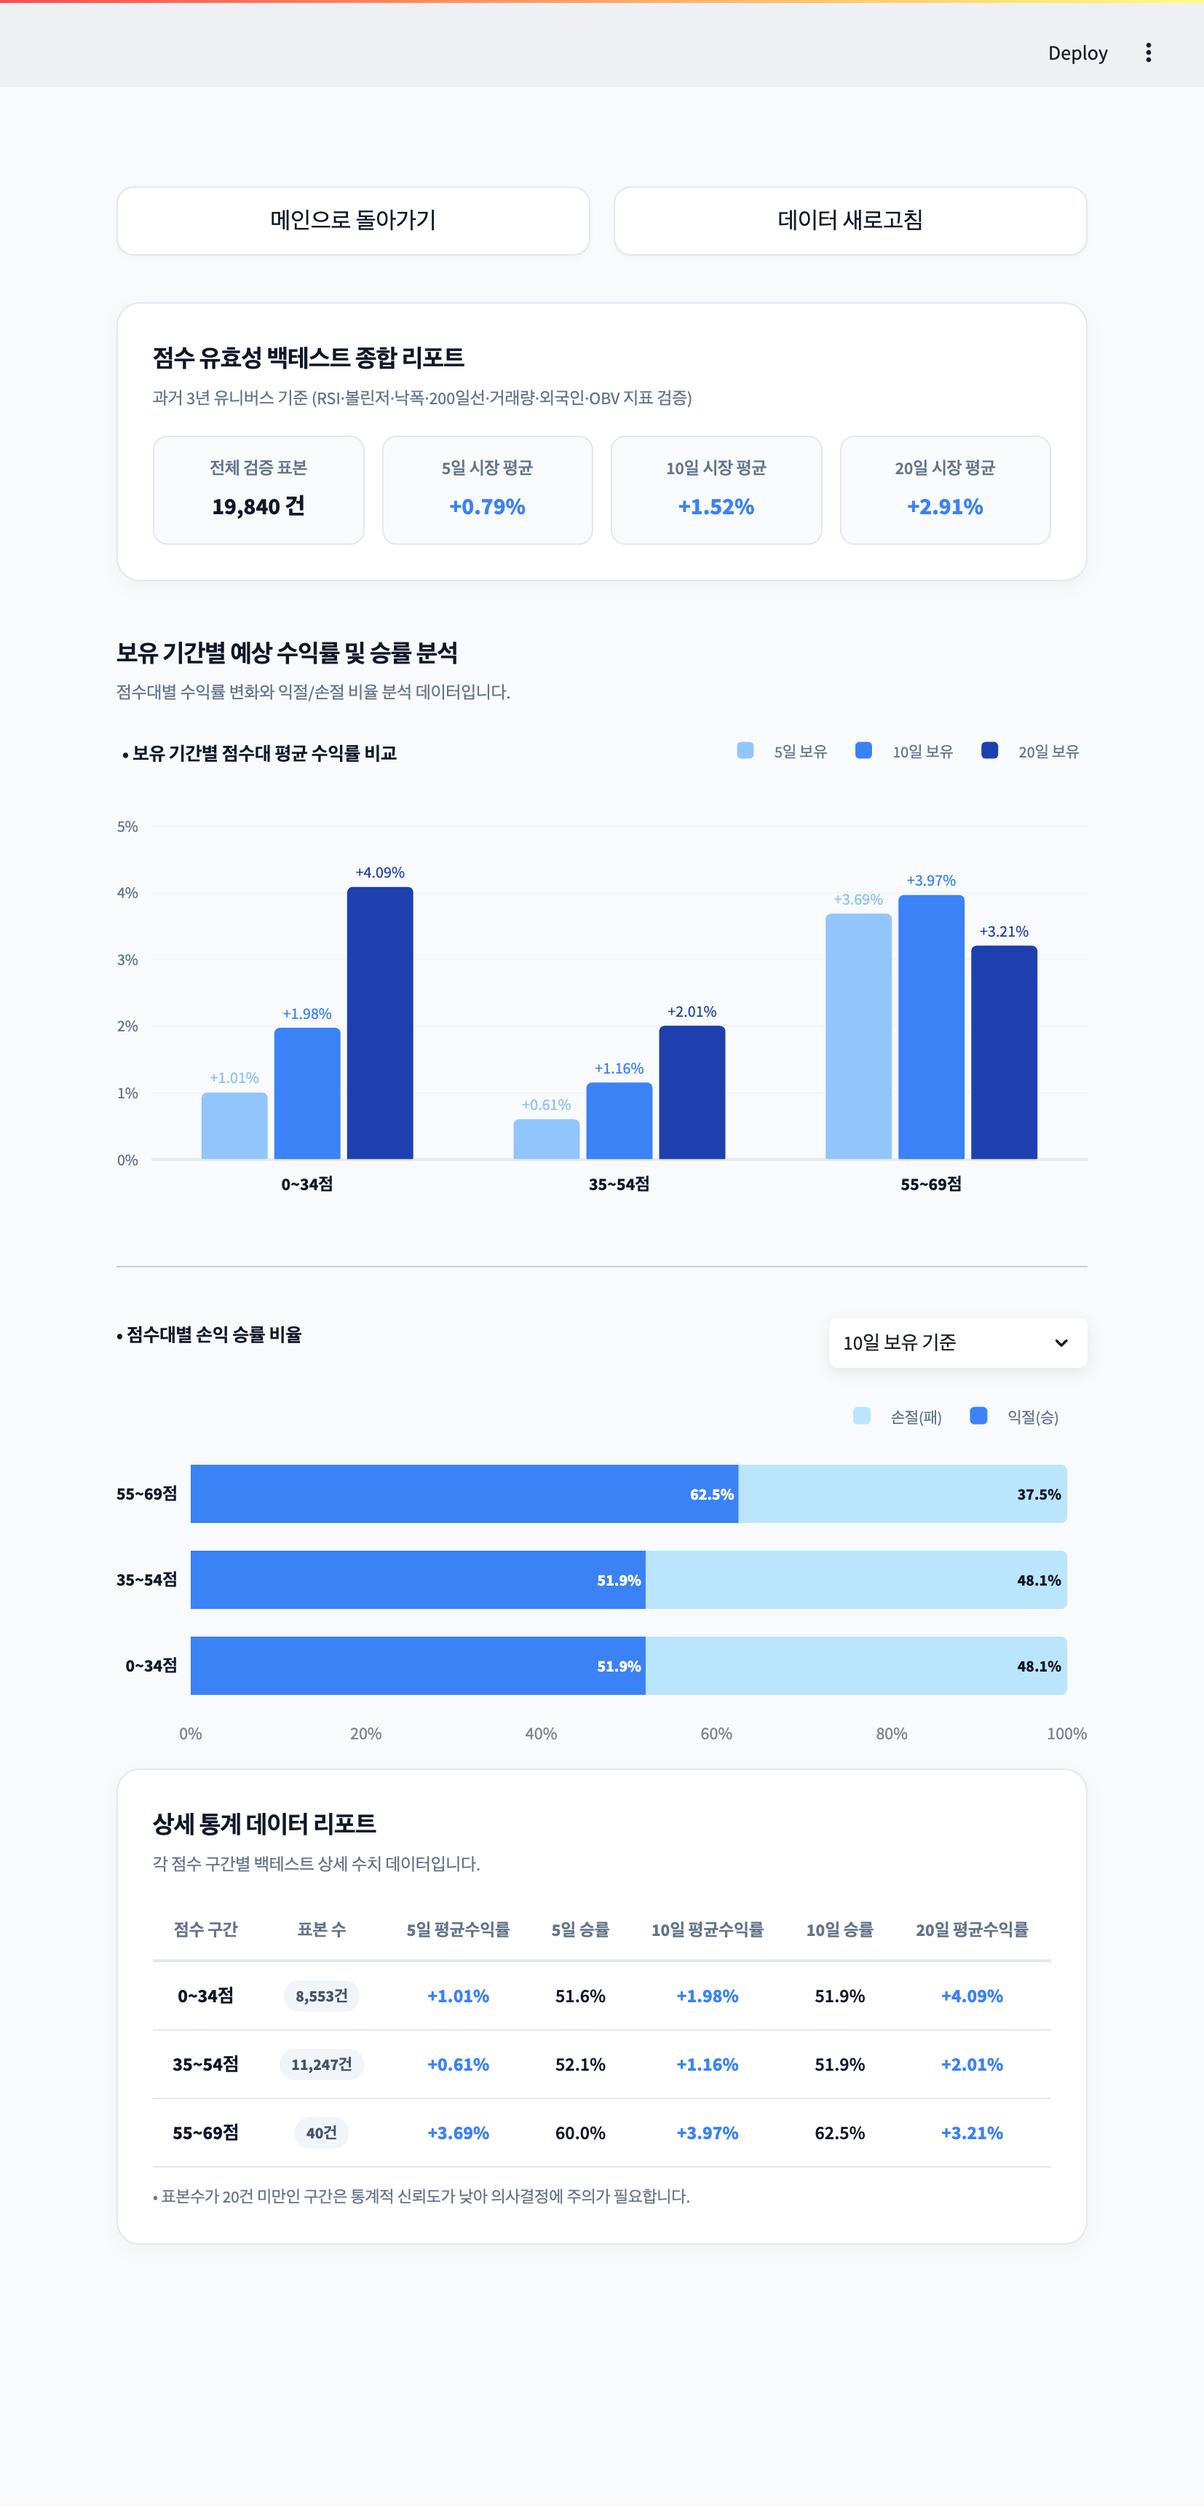
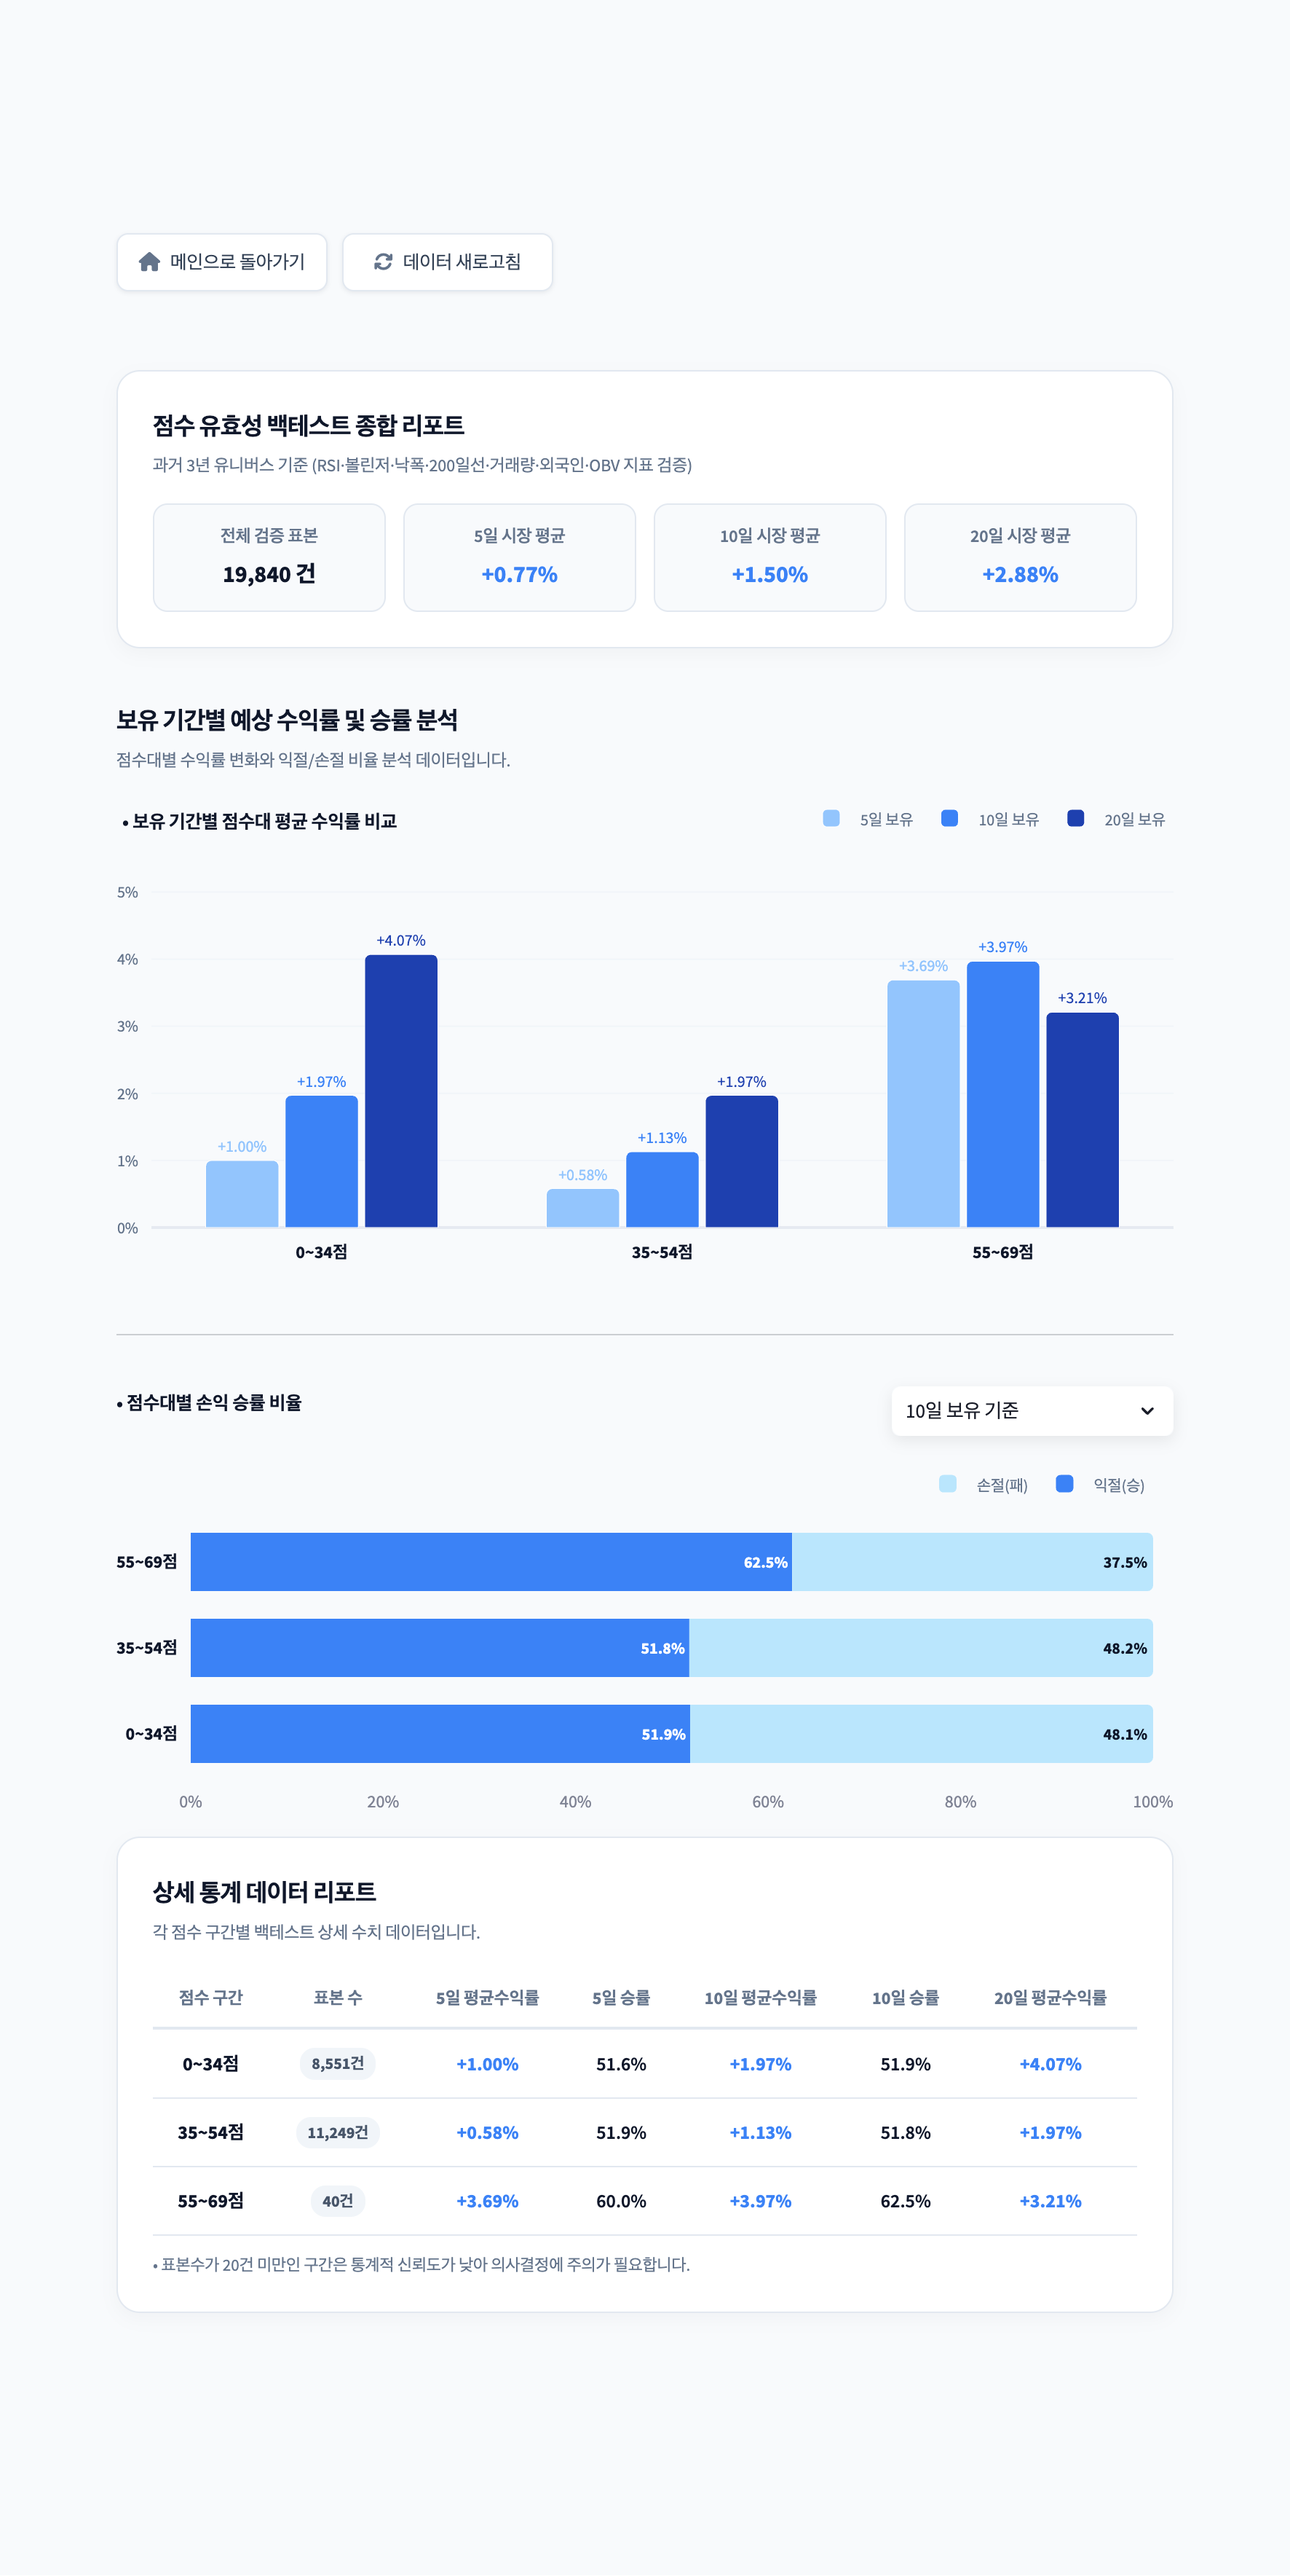
README.md 수정

diff --git a/README.md b/README.md
@@ -14,7 +14,8 @@
 
 ### 종목 상세 — 비명지수 게이지 · 13개 지표 · 손익비 타점
 
-![종목 상세](docs/screenshots/detail.png)
+![종목 상세1](docs/screenshots/search1.png)
+![종목 상세2](docs/screenshots/search2.png)
 
 ### 백테스트 — 점수구간별 승률/수익률 검증
 
